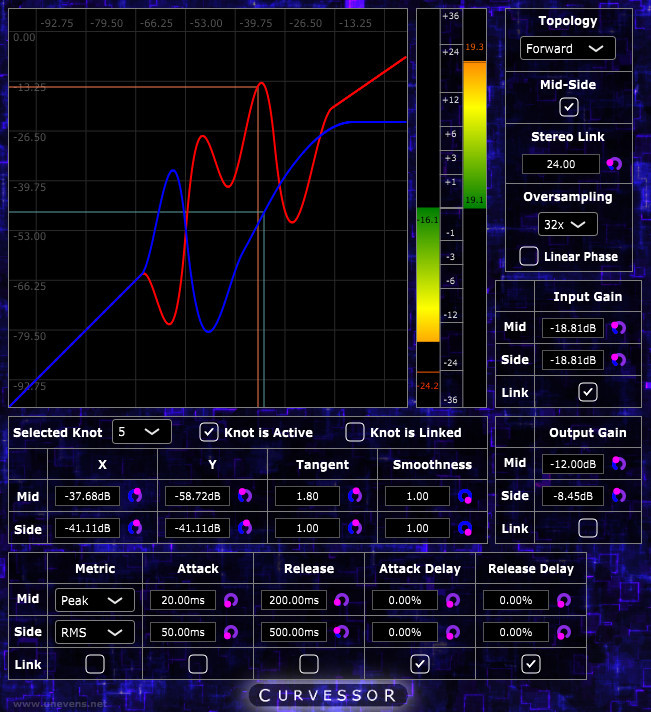
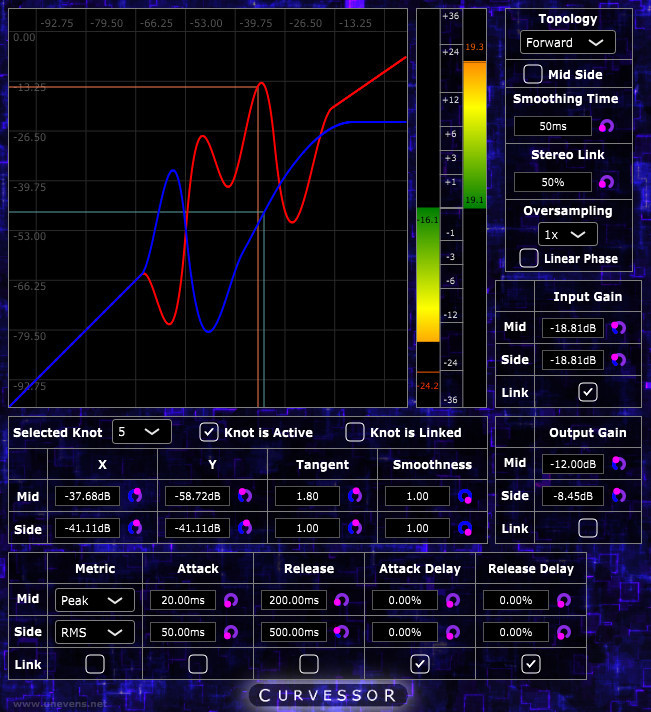
exposed smoothing time as a parameter

Changed region(s): [[0.768, 0.0, 0.9524, 0.4017]]

diff --git a/Source/PluginEditor.cpp b/Source/PluginEditor.cpp
@@ -71,6 +71,8 @@ CurvessorAudioProcessorEditor::CurvessorAudioProcessorEditor(
                 *p.getCurvessorParameters().apvts,
                 "Linear-Phase-Oversampling")
 
+  , smoothing(*this, *p.getCurvessorParameters().apvts, "Smoothing-Time")
+
   , background(ImageCache::getFromMemory(BinaryData::background_png,
                                          BinaryData::background_pngSize))
 {
@@ -85,7 +87,7 @@ CurvessorAudioProcessorEditor::CurvessorAudioProcessorEditor(
   addAndMakeVisible(oversamplingLabel);
   addAndMakeVisible(inputGainLabels);
   addAndMakeVisible(outputGainLabels);
-  addAndMakeVisible(midSideLabel);
+  addAndMakeVisible(smoothingLabel);
   addAndMakeVisible(url);
 
   splineEditor.xSuffix = "dB";
@@ -96,18 +98,21 @@ CurvessorAudioProcessorEditor::CurvessorAudioProcessorEditor(
   topologyLabel.setFont(Font(20._p, Font::bold));
   oversamplingLabel.setFont(Font(20._p, Font::bold));
   stereoLinkLabel.setFont(Font(20._p, Font::bold));
-  midSideLabel.setFont(Font(20._p, Font::bold));
+  midSideEditor.getControl().setButtonText("Mid Side");
 
   topologyLabel.setJustificationType(Justification::centred);
   oversamplingLabel.setJustificationType(Justification::centred);
   stereoLinkLabel.setJustificationType(Justification::centred);
-  midSideLabel.setJustificationType(Justification::centred);
+
+  smoothing.getControl().setTextValueSuffix("ms");
 
   for (int c = 0; c < 2; ++c) {
     splineEditor.vuMeter[c] = &processor.levelVuMeterResults[c];
   }
 
   linearPhase.getControl().setButtonText("Linear Phase");
+
+  stereoLink.getControl().setTextValueSuffix("%");
 
   lineColour = p.looks.frontColour.darker(1.f);
 
@@ -163,9 +168,10 @@ CurvessorAudioProcessorEditor::paint(Graphics& g)
   g.fillRect(juce::Rectangle<float>(632._p, 10._p, 160._p, 330._p));
 
   g.setColour(lineColour);
-  g.drawRect(632._p, 10._p, 160._p, 80._p, 1);
-  g.drawRect(632._p, 10._p, 160._p, 145._p, 1);
-  g.drawRect(632._p, 10._p, 160._p, 220._p, 1);
+  g.drawRect(632._p, 10._p, 160._p, 65._p, 1);
+  g.drawRect(632._p, 10._p, 160._p, 100._p, 1);
+  g.drawRect(632._p, 10._p, 160._p, 170._p, 1);
+  g.drawRect(632._p, 10._p, 160._p, 240._p, 1);
   g.drawRect(632._p, 10._p, 160._p, 330._p, 1);
 
   g.drawRect(splineEditor.getBounds().expanded(1, 1), 1);
@@ -215,57 +221,59 @@ CurvessorAudioProcessorEditor::resized()
   Grid grid;
   using Track = Grid::TrackInfo;
 
-  grid.templateRows = { Track(Grid::Px(40._p)), Track(Grid::Px(40._p)),
+  grid.templateRows = { Track(Grid::Px(30._p)), Track(Grid::Px(40._p)),
+                        Track(Grid::Px(30._p)), Track(Grid::Px(30._p)),
                         Track(Grid::Px(40._p)), Track(Grid::Px(30._p)),
-                        Track(Grid::Px(30._p)), Track(Grid::Px(40._p)),
-                        Track(Grid::Px(40._p)), Track(Grid::Px(40._p)),
-                        Track(Grid::Px(30._p)) };
+                        Track(Grid::Px(40._p)), Track(Grid::Px(30._p)),
+                        Track(Grid::Px(30._p)), Track(Grid::Px(30._p)) };
 
   grid.templateColumns = { Track(1_fr) };
 
-  grid.items = { GridItem(topologyLabel),
-                 GridItem(topologyEditor.getControl())
-                   .withWidth(120._p)
-                   .withHeight(30._p)
-                   .withAlignSelf(GridItem::AlignSelf::start)
-                   .withJustifySelf(GridItem::JustifySelf::center),
-                 GridItem(midSideLabel),
-                 GridItem(midSideEditor.getControl())
-                   .withWidth(30._p)
-                   .withAlignSelf(GridItem::AlignSelf::center)
-                   .withJustifySelf(GridItem::JustifySelf::center),
-                 GridItem(stereoLinkLabel),
-                 GridItem(stereoLink.getControl())
-                   .withWidth(135._p)
-                   .withAlignSelf(GridItem::AlignSelf::center)
-                   .withJustifySelf(GridItem::JustifySelf::center),
-                 GridItem(oversamplingLabel),
-                 GridItem(oversampling.getControl())
-                   .withWidth(std::max(60.0L, 70._p))
-                   .withHeight(30._p)
-                   .withAlignSelf(GridItem::AlignSelf::start)
-                   .withJustifySelf(GridItem::JustifySelf::center),
-                 GridItem(linearPhase.getControl())
-                   .withWidth(130._p)
-                   .withAlignSelf(GridItem::AlignSelf::center)
-                   .withJustifySelf(GridItem::JustifySelf::center) };
+  grid.items = {
+    GridItem(topologyLabel),
+    GridItem(topologyEditor.getControl())
+      .withWidth(120._p)
+      .withHeight(30._p)
+      .withAlignSelf(GridItem::AlignSelf::start)
+      .withJustifySelf(GridItem::JustifySelf::center),
+    GridItem(midSideEditor.getControl())
+      .withWidth(120._p)
+      .withAlignSelf(GridItem::AlignSelf::center)
+      .withJustifySelf(GridItem::JustifySelf::center),
+    GridItem(smoothingLabel)
+      .withAlignSelf(GridItem::AlignSelf::start)
+      .withJustifySelf(GridItem::JustifySelf::center),
+    GridItem(smoothing.getControl())
+      .withWidth(135._p)
+      .withAlignSelf(GridItem::AlignSelf::start)
+      .withJustifySelf(GridItem::JustifySelf::center),
+    GridItem(stereoLinkLabel)
+      .withAlignSelf(GridItem::AlignSelf::start)
+      .withJustifySelf(GridItem::JustifySelf::center),
+    GridItem(stereoLink.getControl())
+      .withWidth(135._p)
+      .withAlignSelf(GridItem::AlignSelf::center)
+      .withJustifySelf(GridItem::JustifySelf::center),
+    GridItem(oversamplingLabel).withAlignSelf(GridItem::AlignSelf::start),
+    GridItem(oversampling.getControl())
+      .withWidth(std::max(60.0L, 70._p))
+      .withHeight(30._p)
+      .withAlignSelf(GridItem::AlignSelf::start)
+      .withJustifySelf(GridItem::JustifySelf::center),
+    GridItem(linearPhase.getControl())
+      .withWidth(130._p)
+      .withAlignSelf(GridItem::AlignSelf::start)
+      .withJustifySelf(GridItem::JustifySelf::center)
+  };
 
   grid.justifyContent = Grid::JustifyContent::center;
   grid.alignContent = Grid::AlignContent::center;
 
   grid.performLayout(
     juce::Rectangle<int>(splineEditorSide + vuMeterWidth + 3 * offset + 17._p,
-                         offset + 5._p,
+                         offset - 2._p,
                          150._p,
-                         310._p));
-
-  midSideEditor.getControl().setTopLeftPosition(
-    midSideEditor.getControl().getPosition().x,
-    midSideEditor.getControl().getPosition().y - 6._p);
-
-  stereoLink.getControl().setTopLeftPosition(
-    stereoLink.getControl().getPosition().x + 10._p,
-    stereoLink.getControl().getPosition().y);
+                         330._p));
 
   url.setTopLeftPosition(10._p, getHeight() - 18._p);
   url.setSize(160._p, 16._p);

diff --git a/Source/PluginProcessor.cpp b/Source/PluginProcessor.cpp
@@ -78,6 +78,8 @@ CurvessorAudioProcessor::Parameters::Parameters(
 
   midSide = CreateBoolParameter("Mid-Side", false);
 
+  smoothingTime = CreateFloatParameter("Smoothing-Time", 50.0, 0.0, 500.0, 1.f);
+
   topology =
     CreateChoiceParameter("Topology", { "Forward", "Feedback", "SideChain" });
 
@@ -105,7 +107,7 @@ CurvessorAudioProcessor::Parameters::Parameters(
   envelopeFollower.metric =
     CreateLinkableChoiceParameters("Metric", { "Peak", "RMS" });
 
-  stereoLink = CreateFloatParameter("Stereo-Link", 50.0, 0.0, 100.0);
+  stereoLink = CreateFloatParameter("Stereo-Link", 50.0, 0.0, 500.0, 1.f);
 
   auto const isKnotActive = [](int knotIndex) {
     return knotIndex >= 3 && knotIndex <= 6;

diff --git a/Source/PluginEditor.h b/Source/PluginEditor.h
@@ -42,7 +42,6 @@ private:
   GammaEnvEditor gammaEnvEditor;
   GainVuMeter vuMeter;
   AttachedToggle midSideEditor;
-  Label midSideLabel{ {}, "Mid-Side" };
   AttachedComboBox topologyEditor;
   Label topologyLabel{ {}, "Topology" };
   AttachedComboBox oversampling;
@@ -50,6 +49,8 @@ private:
   Label oversamplingLabel{ {}, "Oversampling" };
   AttachedSlider stereoLink;
   Label stereoLinkLabel{ {}, "Stereo Link" };
+  AttachedSlider smoothing;
+  Label smoothingLabel{ {}, "Smoothing Time" };
   LinkableControl<AttachedSlider> inputGain;
   LinkableControl<AttachedSlider> outputGain;
   ChannelLabels inputGainLabels;

diff --git a/Source/PluginProcessor.h b/Source/PluginProcessor.h
@@ -58,6 +58,7 @@ class CurvessorAudioProcessor : public AudioProcessor
     LinkableParameter<AudioParameterFloat> outputGain;
     GammaEnvParameters envelopeFollower;
     AudioParameterFloat* stereoLink;
+    AudioParameterFloat* smoothingTime;
     OversamplingParameters oversampling;
 
     std::unique_ptr<SplineParameters> spline;
@@ -83,7 +84,7 @@ class CurvessorAudioProcessor : public AudioProcessor
 
   VecBuffer<Vec2d> feedbackBuffer{ 1 };
 
-  double automationTime = 100.0;
+  double smoothingTime = 100.0;
 
   VecBuffer<Vec2d> stereoLink{ 1 };
   VecBuffer<Vec2d> stereoLinkTarget{ 1 };

diff --git a/Source/Processing.cpp b/Source/Processing.cpp
@@ -289,7 +289,12 @@ CurvessorAudioProcessor::processBlock(AudioBuffer<double>& buffer,
       parameters.envelopeFollower.releaseDelay.get(c)->get());
   }
 
-  double const automationAlpha = exp(-frequencyCoef / automationTime);
+  float const smoothingTime = parameters.smoothingTime->get();
+
+  double const automationAlpha =
+    smoothingTime == 0.f
+      ? 0.f
+      : exp(-frequencyCoef / parameters.smoothingTime->get());
 
   // mid side
 
